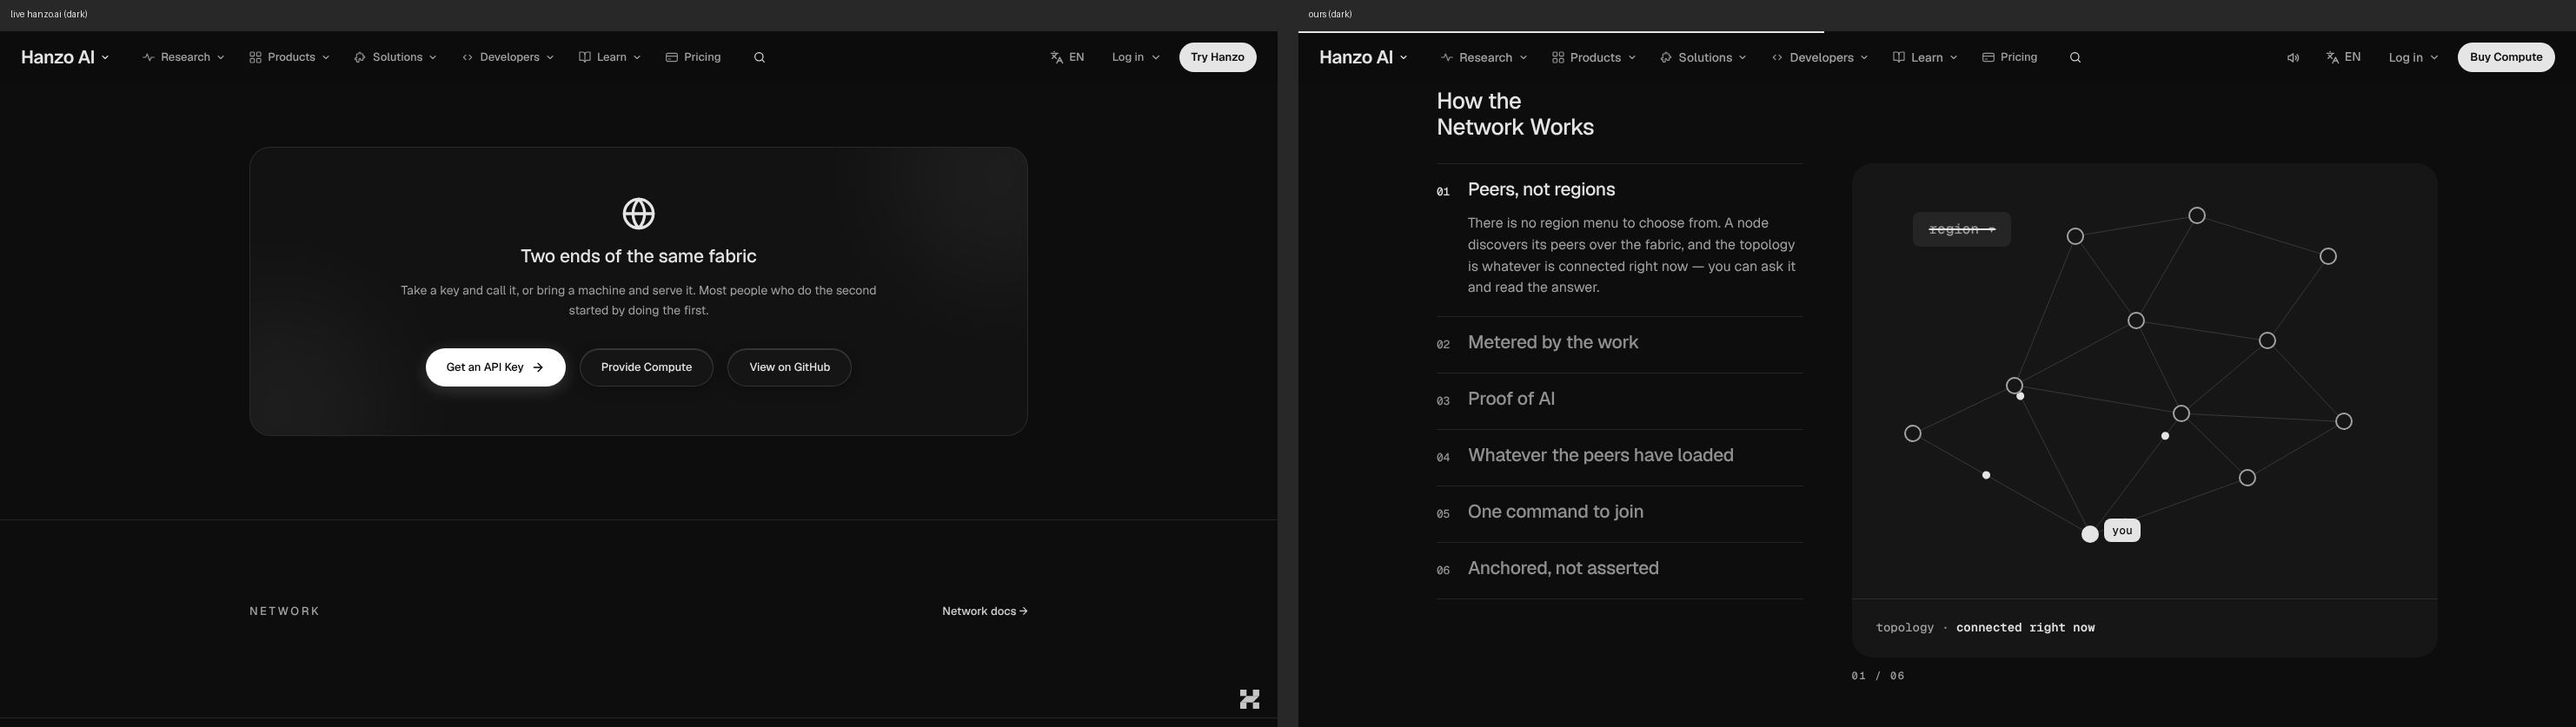
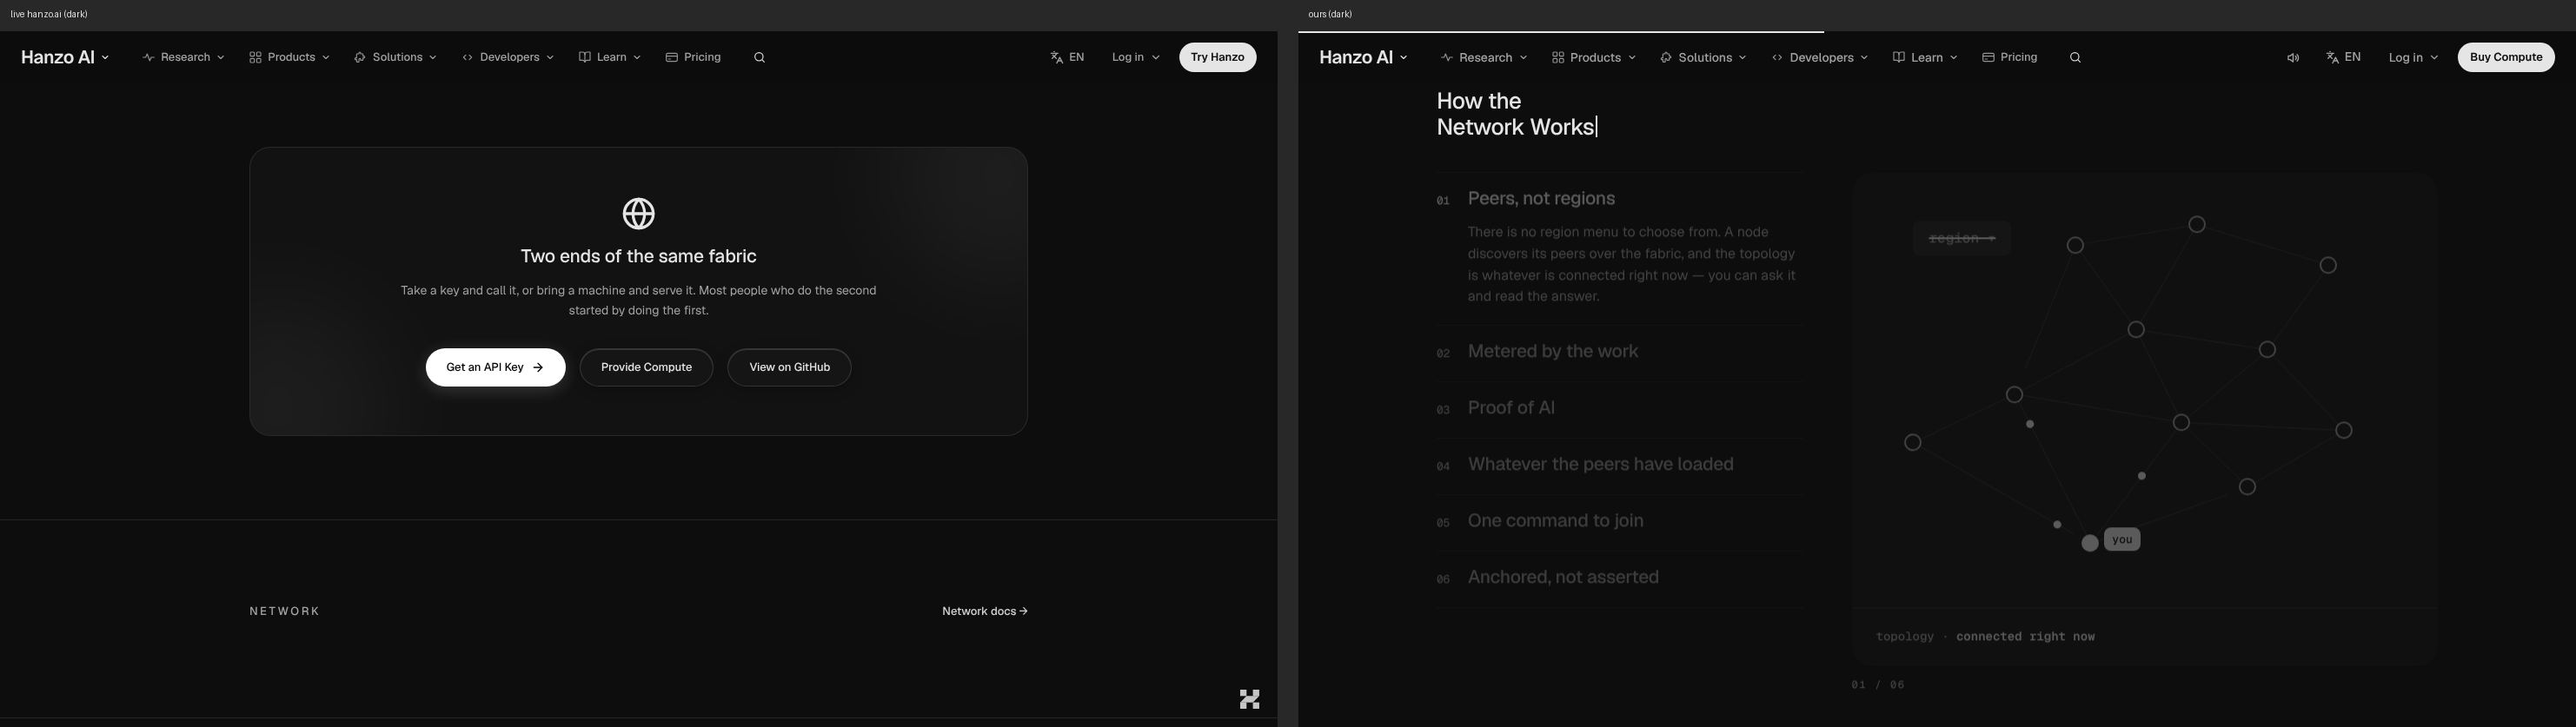
network: dark mode — live's hero halftone (HeroDither) under the hero in dark; checks re-run (darkcheck, lightcheck OK, copycheck 0, 0 errors, no sideways scroll)
Claude-Session: https://claude.ai/code/session_01P5YBdv7StJZXmK5oNtoxtW

diff --git a/components/pages/cloud/Network.jsx b/components/pages/cloud/Network.jsx
@@ -28,6 +28,7 @@ import { Paste } from './Frame';
 import '../../v2/LaunchType.css';
 import LaunchClose, { Arr } from '../../v2/LaunchClose';
 import LivePause, { usePause } from '../../v2/LivePause';
+import HeroDither from '../HeroDither';
 import { Enter, Typed, useEnter } from '../network/Enter';
 import './Network.css';
 
@@ -264,6 +265,7 @@ function Hero() {
   useEffect(() => scrollYProgress.on('change', (p) => setInView(p < 0.95)), [scrollYProgress]);
   return (
     <section className="nw-hero" ref={ref} data-morph-target data-ask-name="Hanzo Network">
+      <HeroDither />
       {/* entrance 1, split-merge: the words slide in from the left, the graph from the right, and meet */}
       <div className="lx-wrap nw-hero-grid nw-en nw-en-split" ref={enterRef} data-enter={st}>
         <div className="nw-hero-copy">

diff --git a/components/pages/cloud/Network.css b/components/pages/cloud/Network.css
@@ -407,3 +407,5 @@ html:not(.light) .nw .nw-pause[aria-pressed='true'] { background: var(--x-raised
   html:not(.light) .nw :is(.nw-pause:hover, .nw-pause[aria-pressed='true']:hover) { background: var(--x-fill); color: var(--foreground); }
 }
 html:not(.light) .nw .nw-pastes .cf-paste-box { box-shadow: inset 0 0 0 1px var(--border); }
+/* live's hero halftone (components/pages/HeroDither, dark only) fills the hero under its content */
+html:not(.light) .nw .nw-hero { position: relative; }

diff --git a/docs/review/network.md b/docs/review/network.md
@@ -2,7 +2,7 @@
 
 Verdict: 8/10
 Ready: 8 Nov, copycheck missing 0 of 26 (live hanzo.ai). The six "How the Network Works" titles sit in their own span beside the aria-hidden 01–06, and the two ends' "Get an API Key" / "Provide Compute" are span leaves (same type) instead of <b>. taste/unique OK; 0 console errors, no overlap at 1470x801 and 375x812.
-Dark: 8 Nov, matches live hanzo.ai in dark side by side (docs/gallery/network/dark-*.jpg); darkcheck OK, lightcheck OK, copycheck 0. (darkcheck lists the two lit peers on the fabric: ink fills that turn light in dark, as Hanzo's primary. The shared .lx kit and close art are pointed at Hanzo's tokens page-locally under .nw; the two-ends room stays black; the close's invert-flash entrance flashes light for a beat in dark, as it flashes dark in bright.)
+Dark: 8 Nov, matches live hanzo.ai in dark side by side (docs/gallery/network/dark-*.jpg); darkcheck OK, lightcheck OK, copycheck 0. (darkcheck lists the two lit peers on the fabric: ink fills that turn light in dark, as Hanzo's primary. The shared .lx kit and close art are pointed at Hanzo's tokens page-locally under .nw; the two-ends room stays black; the close's invert-flash entrance flashes light for a beat in dark, as it flashes dark in bright.) Live's hero halftone (HeroDither, ported from hanzo.ai's own Dither) sits under the hero in dark, as live draws it; bright mode unchanged.
 First complaint: "Once the map has done its run the black bit at the bottom just sits there. Two big dark boxes with nothing in them until I put my mouse on one."
 
 Walked moving at 1470x801 (wheel-scrolled, hover pointer enabled, video recorded) and at 375x812 (touch), cookie bar dismissed, frames 1 s apart on every screen. Layout shift total 0.0011 desktop / 0.0006 phone (nothing over 0.005). Console clean on two fresh loads. The one red "1 Issue" badge in the first walk came from a parse error in another chat's `components/pages/Press.jsx` while it was mid-edit, not from this page. `parity.py /network`: OK, text 37/37, links 5/5. `taste.py` on Network.jsx/.css: OK. Proof: `img/network-hero.jpg` (first screen at 1 s), `img/network-room-rest.jpg` (black room left alone: two still frames 1 s apart are pixel-identical).
